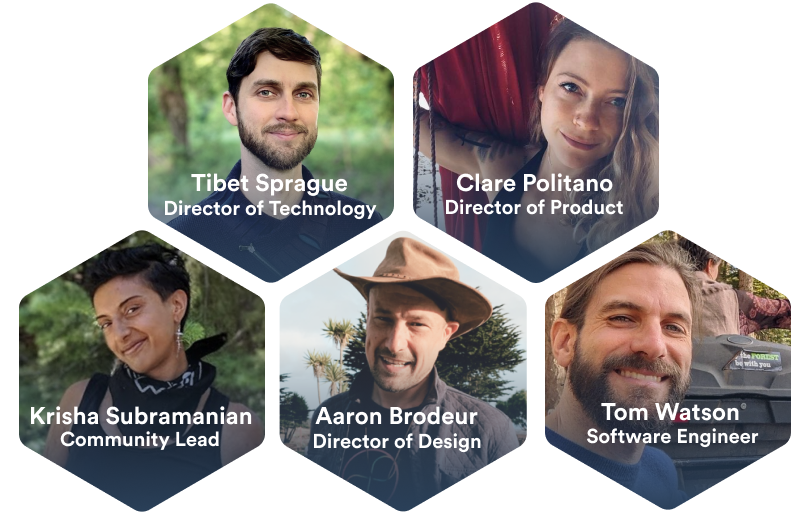
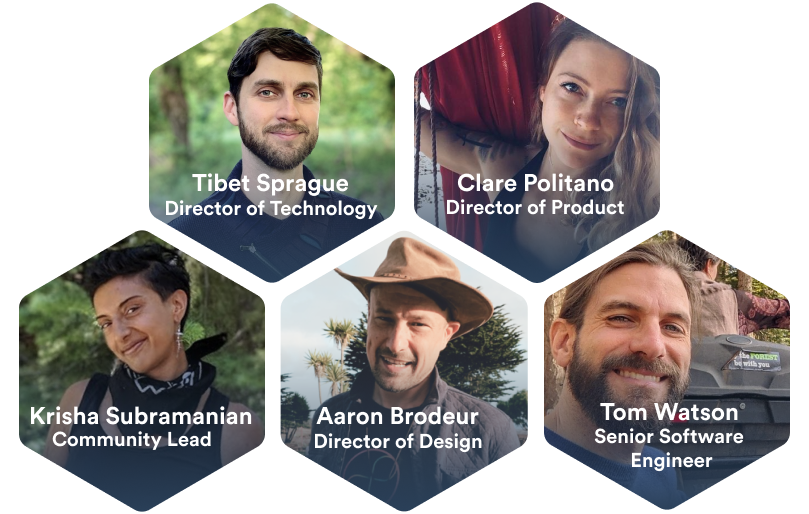
team and headers

diff --git a/src/pages/about.js b/src/pages/about.js
@@ -13,6 +13,10 @@ const AboutPage = () => {
             <div className="headingStyles">
                 <h1>Unleashing the capacity of purpose-driven groups to change the world</h1>
             </div>
+            <div className="backgroundWrapper">
+                <div className={'backgroundImage about'} style={{backgroundImage: `../images/about-page-header.png`}}></div>
+                <div className="backgroundFade"></div>
+            </div>
         </div>
         <div className="contentContainer">
             <h2>Hylo is a community-led, prosocial coordination platform for purpose-driven groups.</h2>
@@ -80,7 +84,8 @@ const AboutPage = () => {
             <p>Hylo is maintained by <a target="_blank" rel="noopener noreferrer" href="http://terran.io">Terran Collective</a>, 
                 a California Bay Area community of care and practice dedicated to amplifying cooperation among people 
                 regenerating our communities and the planet. Hylo Foundation is a fiscally-sponsored 501c3, and Terran co-stewards 
-                Hylo with Holo Ltd (the makers of Holochain) who make the technology available under the open source Apache License 2.0. 
+                Hylo with Holo Ltd (the makers of Holochain) who make the technology available under the open source Apache License 2.0.
+                We are in the process of assembling an advisory board and establishing an indepedent business entity for Hylo.  
                 <strong> Our goal is to transition to a structure that enshrines Hylo as a technology commons with a participatory 
                 governance model that formally includes stakeholder voices.</strong></p>
 
@@ -94,6 +99,42 @@ const AboutPage = () => {
             <div className="contentImage">
                 <img src={team} alt="Hylo team members" width="100%" />
             </div>
+
+            <p><strong>Tibet Sprague, Director of Technology</strong><br/>
+            Tibet Sprague is a systems entrepreneur, communitarian technologist, and passionate evangelist of the more beautiful world our hearts know is possible. 
+            He is founder and core steward of the Terran Collective, and Director of Technology for Hylo. 
+            He also stewards the Collaborative Technology Alliance, facilitating collaboration and interoperability among humane social technologists and platforms. 
+            Tibet loves to weave community, facilitate councils and other prosocial processes, and bring people together to regenerate the Bay Area bioregion he resides in. 
+            </p>
+            <p><strong>Clare Politano, Director of Product</strong><br/>
+            Clare is a mother, a technologist, a land steward, and a community organizer weaving systems and tools for a 
+            regenerative future. With a background in non-profit communications and software engineering, she has spent over
+             a decade at the forefront of using technology as a tool to mobilize communities for change. 
+             Clare leads product development for Hylo, where she facilitates processes to co-design tech solutions for 
+             real-world groups. Through this work, Clare has developed a specialization in participatory governance and community 
+             stewardship, guiding numerous groups to grow communities that are equitable and impactful. 
+             She is a ProSocial facilitator and holds a B.A. in Political Science from the University of Virginia.
+            </p>
+            <p><strong>Krisha Subramanian, Community Lead</strong><br/>
+            Krisha has a background in business development and sales, though her passions lie in holistic wellness, 
+            regenerative living, social justice, and earth-based traditions. She is a life-long student of Ayurveda 
+            and is in perpetual inquiry around how we can live in greater harmony with ourselves, our community, and planet. 
+            She stewards a 50-hectare regenerative land project in the cloud forest of Costa Rica.
+            </p>
+            <p><strong>Aaron Broduer, Director of Design</strong><br/>
+            Aaron is an interface and systems designer, artist, musician, builder, and entrepreneur. 
+            His work in technology designing and building social apps, sales systems, satellite solar design tools, 
+            distributed governance tools, and nationwide activism platforms has touched millions. 
+            He is dedicated to designing systems and tools for resilience and thriving in an uncertain future. 
+            He experiments with building closed-loop products with lighting business <a target="_blank" rel="noopener noreferrer" href="https://www.alchemica.ai/">Alchemica</a>, 
+            and he is a contributor to the Holochain ecosystem through <a target="_blank" rel="noopener noreferrer" href="https://lightningrodlabs.org/">Lightningrod Labs</a>.
+            </p>
+            <p><strong>Tom Watson, Senior Software Engineer</strong><br/>
+            Hailing from Canberra, Australia, Tom arrives into 2024 deeply pondering 1) our relationship to place, 
+            2) cultural practices that build community (eg: rites of passage) and 
+            3) What is “regenerative culture”, and can we define it without it being captured by the marketing departments of the hegemony. 
+            Tom has been focusing on mobile development for the team over the last year.
+            </p>
         </div>
         <Footer />
     </Layout>

diff --git a/src/pages/participate.js b/src/pages/participate.js
@@ -11,6 +11,10 @@ const ParticipatePage = () => {
             <div className="headingStyles">
                 <h1>A public good technology commons co-created by you</h1>
             </div>
+            <div className="backgroundWrapper">
+                <div className={'backgroundImage participate'} style={{backgroundImage: `../images/participate-page-header.png`}}></div>
+                <div className="backgroundFade"></div>
+            </div>
         </div>
         <div className="contentContainer">
             <h2>There is a place for you at our table.</h2> 
@@ -55,7 +59,7 @@ const ParticipatePage = () => {
             </div>
 
             <h2 id="community-stewardship">Get community stewardship support</h2>
-            <p>An online community is a living thing, like a garden -- it needs care and attention to thrive. 
+            <p><strong>An online community is a living thing</strong>, like a garden -- it needs care and attention to thrive. 
                 Hylo is designed to help group stewards build engagement and collaboration, but no technology can take the place of dedicated tending from a human. 
                 If building community online feels daunting, we are here to help! The <a target="_blank" rel="noopener noreferrer" href="https://hylozoic.gitbook.io/hylo/guides/building-engagement-in-your-group">Hylo documentation</a> includes a lot of guidance to help your group thrive and effectively take action toward your goals.</p>
             <p>If you're looking for more support, the Hylo team offer community stewardship support at a variety of levels. Over the years, 

diff --git a/src/pages/privacy.js b/src/pages/privacy.js
@@ -8,7 +8,11 @@ const PrivacyPage = () => {
     <Layout pageTitle="Hylo Privacy Policy">
         <div className="hero contentHero">
             <div className="headingStyles">
-                <h1></h1>
+                <h1>Privacy Policy</h1>
+            </div>
+            <div className="backgroundWrapper">
+                <div className={'backgroundImage terms'} style={{backgroundImage: `../images/agreements-page-header.png`}}></div>
+                <div className="backgroundFade"></div>
             </div>
         </div>
         <div className="contentContainer">

diff --git a/src/pages/agreements.js b/src/pages/agreements.js
@@ -12,6 +12,10 @@ const AgreementsPage = () => {
             <div className="headingStyles">
                 <h1>Clear agreements are essential to prosocial coordination</h1>
             </div>
+            <div className="backgroundWrapper">
+                <div className={'backgroundImage agreements'} style={{backgroundImage: `../images/agreements-page-header.png`}}></div>
+                <div className="backgroundFade"></div>
+            </div>
         </div>
         <div className="contentContainer">
             <h2 id="values">Our Values &amp; Commitments</h2>

diff --git a/src/pages/terms.js b/src/pages/terms.js
@@ -8,7 +8,11 @@ const TermsPage = () => {
     <Layout pageTitle="Hylo Terms of Use">
         <div className="hero contentHero">
             <div className="headingStyles">
-                <h1></h1>
+                <h1>Terms of Use</h1>
+            </div>
+            <div className="backgroundWrapper">
+                <div className={'backgroundImage terms'} style={{backgroundImage: `../images/agreements-page-header.png`}}></div>
+                <div className="backgroundFade"></div>
             </div>
         </div>
         <div className="contentContainer">

diff --git a/src/styles/styles.scss b/src/styles/styles.scss
@@ -402,6 +402,22 @@ p {
         background-image: url(../images/gardening-web.png);
     }
 
+    .about {
+        background-image: url(../images/about-page-header.png);
+    }
+
+    .participate {
+        background-image: url(../images/participate-page-header.png);
+    }
+
+    .agreements {
+        background-image: url(../images/agreements-page-header.png);
+    }
+
+    .terms {
+        background-image: url(../images/agreements-page-header.png);
+    }
+
     .backgroundFade {
         position: absolute;
         width: 100%;
